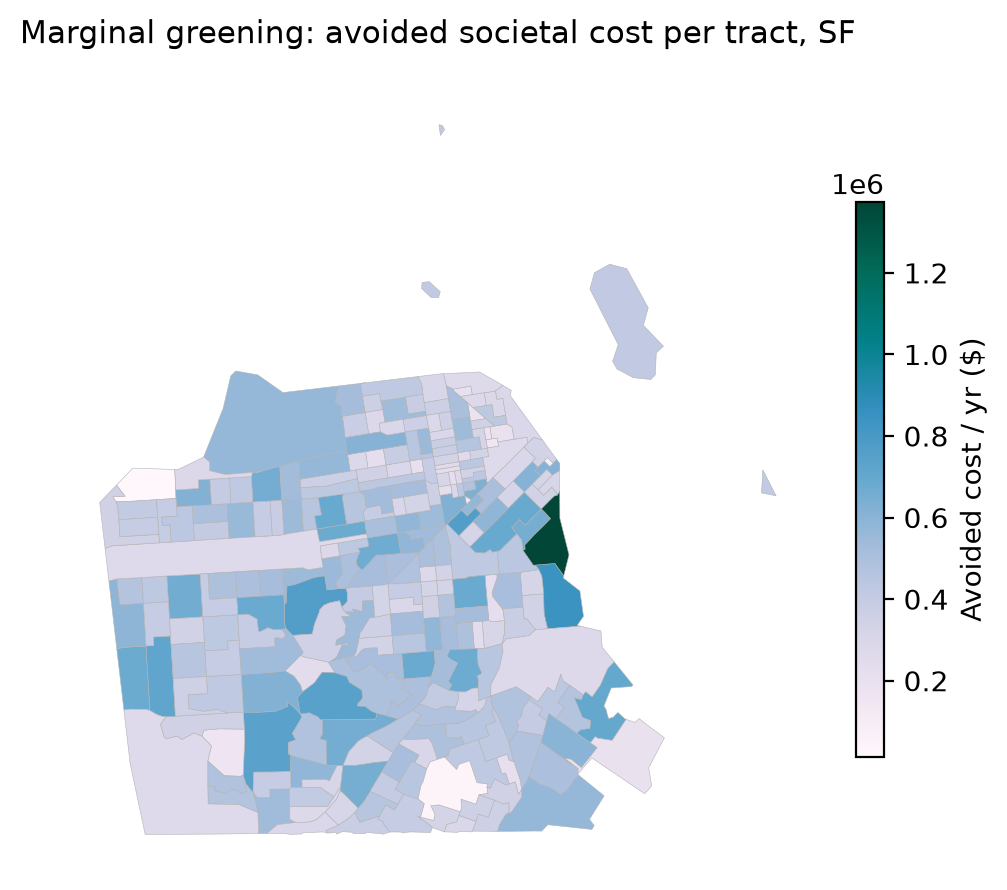
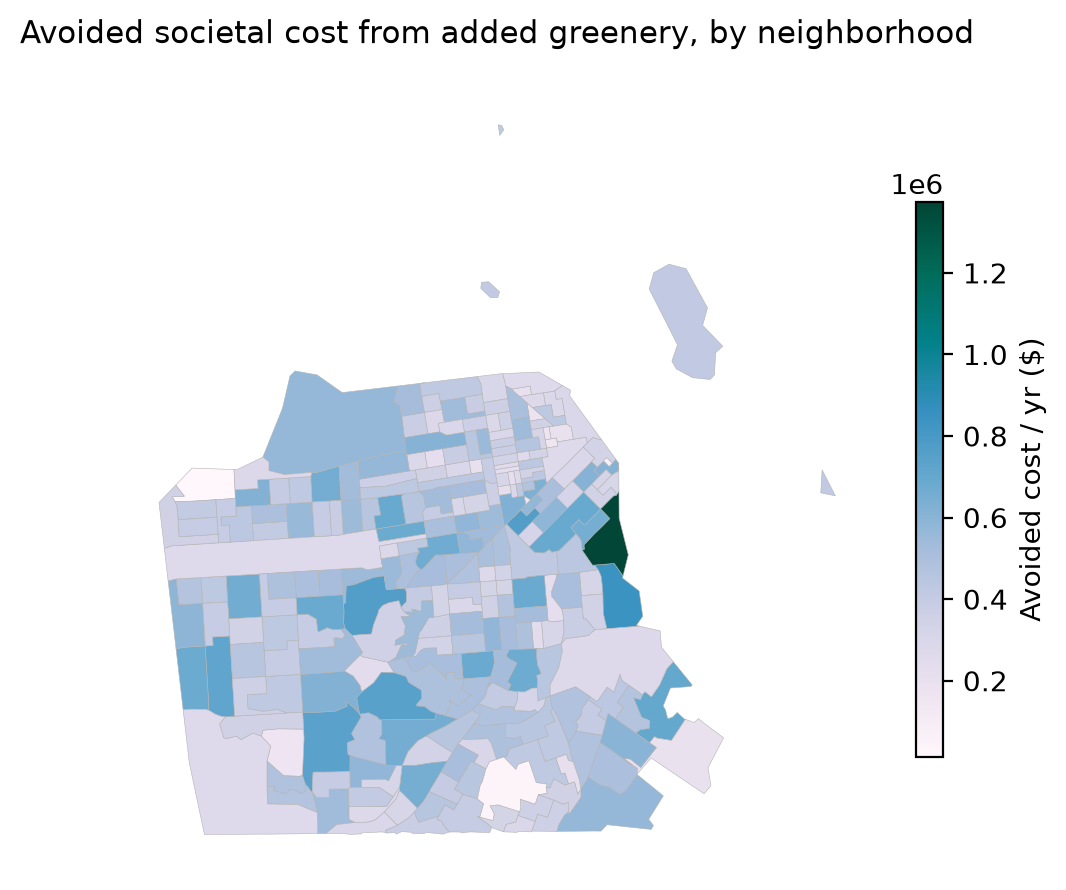
edit summary audience-friendly sections

diff --git a/results/summaries/results_summary.md b/results/summaries/results_summary.md
@@ -1,32 +1,50 @@
-# Model results summary (SF)
+# San Francisco: health benefits of urban greenery
 
-_Generated 2026-07-13 from `preventable_cases_cost_sum_sf_2024.csv`._
+_Generated 2026-07-13._
 
-## Headline
+This report estimates how much depression could be prevented — and how much money saved — by increasing greenery (street trees, parks, vegetation) across San Francisco. It combines satellite greenery (the NDVI index), local adult depression rates (CDC PLACES) and where people live (WorldPop) via the InVEST Urban Mental Health model. Key terms are defined in the glossary at the end.
 
-- Preventable depression cases/year: **4,867**
-- Avoided societal cost/year: **$103,573,424**
-- Tracts analyzed: **241**
-- Per-tract cases: mean 20.2, median 19.6, min 0.6, max 64.5
+## In brief
 
-## QA checks
+Adding a modest amount of greenery across San Francisco — a **+0.05 rise in the NDVI greenery index**, roughly the scale of Barcelona's green-corridor plan — could prevent about **4,867 cases of depression per year**, worth roughly **$104 million** in avoided societal cost. Separately, the greenery San Francisco *already has* is estimated to prevent about **21,321 cases per year** versus a bare city.
 
-- Implied cost/case $21,280 vs health_cost_rate $21,280 — OK (matches).
-- Reminder: baseline cases should use ADULT population (prevalence is adult); if population wasn't adult-scaled, totals are overstated ~20%.
-- Greening scenario and effect size are assumptions — read with the sensitivity range below, not as point truth.
+## Headline numbers
 
-## Two counterfactuals
+- **4,867** depression cases prevented per year (from added greenery)
+- **$103,573,424** avoided societal cost per year
+- Neighborhoods analyzed: **241** census tracts
+- Per neighborhood: **20** cases prevented on average (range 1–65).
 
-Two distinct questions, reported side by side:
+## Two ways to value greenery
 
-- **Marginal greening** (current NDVI -> +scenario): **4,867** preventable cases/yr, **$103,573,424**/yr.
-- **Total value of existing greenness** (bare NDVI=0 -> current): **21,321** cases/yr already averted, **$453,715,456**/yr.
+We answer two different questions:
 
-The first is the benefit of *adding* greenness (policy-relevant marginal effect); the second is an ecosystem-service accounting of greenness already present. The NDVI=0 figure extrapolates the exposure-response well beyond observed data, so treat it as an upper-bound accounting number, not a prediction of what removing all vegetation would do.
+1. **Adding greenery** (the policy question) — if greenery rose by +0.05 NDVI everywhere, about **4,867** cases/yr ($104M) would be prevented.
+2. **Greenery we already have** (its standing value) — versus a bare, vegetation-free city, today's greenery already prevents about **21,321** cases/yr ($454M).
 
-## Context & reference numbers
+The first guides investment; the second is an accounting of a benefit the city already enjoys. The "bare city" is a what-if benchmark, not a real prospect — read it as an upper bound.
 
-Putting the San Francisco result in perspective:
+![The two scenarios compared: depression cases prevented per year.](../figures/counterfactual_comparison.png)
+<sub>The two scenarios compared: depression cases prevented per year.</sub>
+
+**Where the benefits fall** — darker means more cases prevented:
+
+<table><tr>
+<td width="50%"><img src="../figures/map_marginal_cases.png" width="100%"><br><sub>Adding greenery (+0.05 NDVI)</sub></td>
+<td width="50%"><img src="../figures/map_existing_greenness_cases.png" width="100%"><br><sub>Greenery already present</sub></td>
+</tr></table>
+
+## Where the benefits concentrate
+
+Benefits are largest where many people live near low greenery and depression rates are high. The map shows avoided cost by neighborhood; the scatter shows that higher-prevalence neighborhoods gain more from greening.
+
+![Avoided societal cost per neighborhood, from added greenery.](../figures/map_marginal_cost.png)
+<sub>Avoided societal cost per neighborhood, from added greenery.</sub>
+
+
+## Putting the numbers in perspective
+
+To make the San Francisco result intuitive:
 
 - Preventable cases are **0.59%** of total population (5.9 per 1,000 residents).
 - Estimated adult depression pool ≈ **146,212** (716,727 adults × 20.4%); marginal greening averts **3.3%** of it, and existing greenness accounts for **15%**.
@@ -34,31 +52,20 @@ Putting the San Francisco result in perspective:
 - Avoided cost per resident: **$125/year**.
 - (Population/GDP anchors live in config.yaml `context:` — update per city; GDP is an approximate BEA figure.)
 
-## Baseline & population check
+## How reliable are these numbers?
 
-- Marginal preventable fraction (model): **2.84%** of baseline cases at +0.05 NDVI (RR 0.944).
-- Model-implied baseline depression cases: **171,359** (= preventable / preventable-fraction).
-- Census-based adult depression pool: **146,212** (716,727 adults × 20.4%).
-- ⚠️ Model baseline is **1.17×** the census pool → the population raster likely sums ~839,995 (vs 716,727 adults). Check that population was adult-scaled AND clipped to the AOI polygon (not a bounding box). Fixing it scales the headline down by ~15%.
+The estimate rests on two main assumptions — how strongly greenery affects depression (the *effect size*) and the cost per case. The chart and table show how the result shifts across plausible values.
 
-## Literature benchmark
+![How avoided cost changes with the effect size and cost-per-case range.](../figures/sensitivity_range.png)
+<sub>How avoided cost changes with the effect size and cost-per-case range.</sub>
 
-- **Greening magnitude.** Our +0.05 NDVI scenario is close to the Barcelona "Eixos Verds" green-corridor plan, whose HIA modelled an average **+0.059 NDVI** — so the dose is realistic, not arbitrary.
-- **Method precedent.** A 2025 global study (J. Global Health) uses the same design — scenario-based preventable depression burden from greenness via a pooled meta-analytic OR and population-attributable fractions — so the approach is established and publishable.
-- **Effect magnitude.** Published per-0.1-NDVI depression reductions cluster around **5-8%**; our risk-ratio gives **5.6%** per 0.1 NDVI — at the conservative end, as expected after the OR->RR correction (the higher figures use the OR directly).
-- **Takeaway.** The preventable *fraction* is defensible and literature-consistent; the absolute count depends on the population baseline (see check above).
-
-_Refs: Liu et al. 2023 Environ. Res. 231:116303; Barcelona Eixos Verds HIA (Mueller et al., Environ. Int. 2023); JOGH 2025;15:04280._
-
-## Sensitivity (effect_size × cost)
-
-| effect_size | preventable_cases | cost_low | cost_central | cost_high |
+| effect size (RR) | cases prevented | cost (low) | cost (central) | cost (high) |
 |---|---:|---:|---:|---:|
 | 0.908 | 8,073 | $137,234,774 | $171,785,647 | $185,670,577 |
 | 0.944 | 4,867 | $82,741,930 | $103,573,428 | $111,944,964 |
 | 0.982 | 1,549 | $26,337,096 | $32,967,848 | $35,632,542 |
 
-## p0 sensitivity (OR->RR conversion)
+### Sensitivity to the baseline-risk assumption (p0)
 
 Baseline risk p0 used: **0.204** (population-weighted PLACES prevalence); central OR 0.931 -> RR 0.9443. The RR is nearly flat in p0, but preventable cases scale with -ln(RR), so they move ~±6% per 0.05 change in p0 — hence pinning p0 to the data (compute_p0.py):
 
@@ -70,15 +77,32 @@ Baseline risk p0 used: **0.204** (population-weighted PLACES prevalence); centra
 | 0.25 | 0.9473 | 4,593 |
 | 0.30 | 0.9507 | 4,295 |
 
-## Figures
+### Baseline & population check
 
+- Marginal preventable fraction (model): **2.84%** of baseline cases at +0.05 NDVI (RR 0.944).
+- Model-implied baseline depression cases: **171,359** (= preventable / preventable-fraction).
+- Census-based adult depression pool: **146,212** (716,727 adults × 20.4%).
+- ⚠️ Model baseline is **1.17×** the census pool → the population raster likely sums ~839,995 (vs 716,727 adults). Check that population was adult-scaled AND clipped to the AOI polygon (not a bounding box). Fixing it scales the headline down by ~15%.
 
-![Preventable cases per tract — marginal greening (+0.05 NDVI)](../figures/map_marginal_cases.png)
+## How this compares with other studies
 
-![Cases already averted by existing greenness per tract (NDVI=0 counterfactual)](../figures/map_existing_greenness_cases.png)
+- **Greening magnitude.** Our +0.05 NDVI scenario is close to the Barcelona "Eixos Verds" green-corridor plan, whose HIA modelled an average **+0.059 NDVI** — so the dose is realistic, not arbitrary.
+- **Method precedent.** A 2025 global study (J. Global Health) uses the same design — scenario-based preventable depression burden from greenness via a pooled meta-analytic OR and population-attributable fractions — so the approach is established and publishable.
+- **Effect magnitude.** Published per-0.1-NDVI depression reductions cluster around **5-8%**; our risk-ratio gives **5.6%** per 0.1 NDVI — at the conservative end, as expected after the OR->RR correction (the higher figures use the OR directly).
+- **Takeaway.** The preventable *fraction* is defensible and literature-consistent; the absolute count depends on the population baseline (see check above).
 
-![Avoided societal cost per tract — marginal greening](../figures/map_marginal_cost.png)
+_Refs: Liu et al. 2023 Environ. Res. 231:116303; Barcelona Eixos Verds HIA (Mueller et al., Environ. Int. 2023); JOGH 2025;15:04280._
 
-![Two counterfactuals: added vs. existing greenness](../figures/counterfactual_comparison.png)
+## Data-quality checks
 
-![Avoided cost by effect size, with cost-per-case band as error bars](../figures/sensitivity_range.png)
+- Cost bookkeeping: implied $21,280/case vs configured $21,280 — OK.
+- Population is adult-scaled (depression rates are for adults); the baseline check above confirms it against census figures.
+- The greening scenario and effect size are assumptions — read the headline with the ranges above, not as a single certain number.
+
+## Glossary
+
+- **NDVI** — a satellite greenery index from 0 to 1; higher = more vegetation. A +0.05 rise is a modest, realistic increase.
+- **Prevented (preventable) cases** — depression cases expected *not* to occur when greenery increases, based on published greenery–depression studies.
+- **Societal cost** — the full annual cost of a depression case (healthcare plus lost productivity), not just medical bills.
+- **Census tract** — a neighborhood-sized area (~4,000 people) used for the maps.
+- **Effect size (risk ratio)** — how much depression risk changes per +0.1 NDVI.